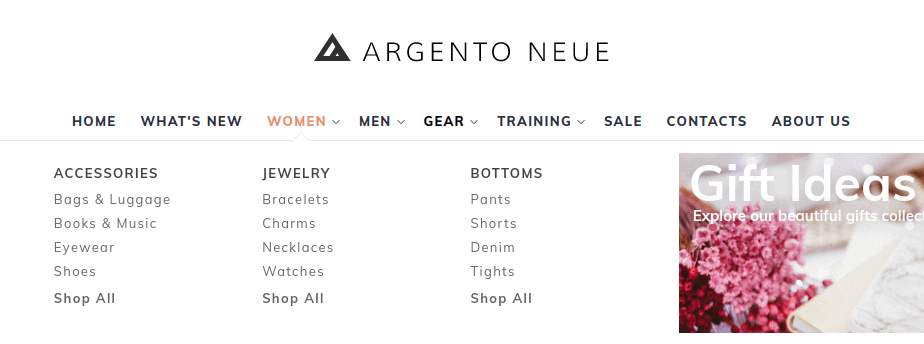
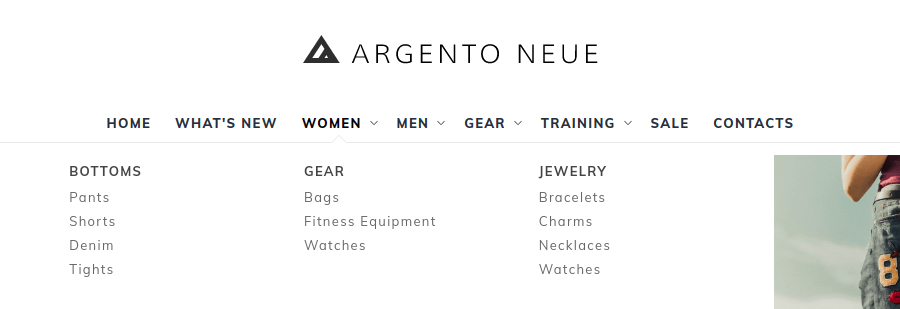
Navigationpro M2: 1.13 updates

diff --git a/m2/extensions/navigationpro/use-cases/megamenu.md b/m2/extensions/navigationpro/use-cases/megamenu.md
@@ -9,22 +9,55 @@ category: Navigationpro
 
 ![Megamenu](/images/m2/navigationpro/use-cases/megamenu.png)
 
+### Steps to create Menu
+
  1. Navigate to _Swissup > NavigationPro_ page, and press "Add New Menu".
- 2. Fill the [form](/m2/extensions/navigationpro/backend/menu-new/) and press "Save".
-    (Select 'Megamenu' type in the form).
- 3. That's all, menu skeleton is ready. Check the frontend!
- 4. If you whould like to limit the number of categories to display on the second
-    dropdown level, open **Menu Settings** panel and edit "Second level dropdown settings"
-    fields:
+ 2. Fill the with following values:
 
-    ![Second level dropdown settings](/images/m2/navigationpro/use-cases/megamenu/second-level-dropdown-settings.png)
+    ```
+    Name: Some name that will explicitly describe the menu
+    Type: Megamenu
+    Import Categories From: Select Root Category
+    Replace Top Menu at: Select Stores that will use this menu
+    ```
 
- 5. Now let's add a banner into 'Women' dropdown. Select the item in the tree
-    and edit **Dropdown Settings** fields:
+ 3. Save the form. Now you can open your store frontend and check if everything
+    works fine.
 
-    ![Item dropdown settings](/images/m2/navigationpro/use-cases/megamenu/item-dropdown-settings.png)
+### Tips and Tricks
 
- 6. Use the same approach to change some settings for any other dropdowns.
+##### "Shop All" Link
+
+If you whould like to limit the number of categories to display on the second
+dropdown level (Show 'Shop All' link), navigate to
+_Menu Settings > Open Dropdown Settings > Second level dropdown settings_
+and edit "Layout" settings:
+
+![Second level dropdown settings](/images/m2/navigationpro/use-cases/megamenu/second-level-dropdown-settings.png)
+
+##### Category Image in Dropdown
+
+We use [EasyCatalogImages](/m2/extensions/easycatalogimages/) to add thumbnail
+attribute to each category. You can replace it with any other attribute. Open menu
+in backend, then navigate to _Menu Settings > Open Dropdown Settings > First level dropdown settings_.
+Here you can edit template that shows category image:
+
+```html
+{% raw %}<div style="overflow: hidden; max-height: 350px;">
+    {{depend remote_entity.thumbnail}}
+        <img class="xs-hide sm-hide" src="{{media url=''}}/catalog/category/{{var remote_entity.thumbnail}}" />
+    {{/depend}}
+</div>{% endraw %}
+```
+
+##### Per-item Dropdown Settings
+
+Sometimes you may want to change dropdown layout for particular item only.
+Open menu in backend, click on the category to edit in categories tree on the left
+and turn off "Use Menu Settings" in dropdown settings on the right. Here is a
+screenshot of dropdown settings for "Women" category:
+
+![Item dropdown settings](/images/m2/navigationpro/use-cases/megamenu/item-dropdown-settings.png)
 
 #### Next up
 {:.no_toc}

diff --git a/m2/extensions/navigationpro/use-cases/iconic-menu.md b/m2/extensions/navigationpro/use-cases/iconic-menu.md
@@ -7,8 +7,6 @@ category: Navigationpro
 
 # Iconic Menu
 
-> Don't have a menu yet? Create [simple menu][simple-menu] and come back!
-
 ## Contents
 {:.no_toc}
 
@@ -19,23 +17,53 @@ category: Navigationpro
 
 ![Iconic Menu](/images/m2/navigationpro/use-cases/iconic-menu.png)
 
- 1. Navigate to _Swissup > NavigationPro_ page, open menu to edit
- 2. Apply custom [item renderer][item-renderer] to each top level category as
-    shown below:
+#### Steps to create Menu
 
-    ![Iconic Menu Backend](/images/m2/navigationpro/use-cases/iconic-menu-backend.png)
+ 1. Navigate to _Swissup > NavigationPro_ page, and press "Add New Menu".
+ 2. Fill the with following values:
 
-    ```html
-    {% raw %}<a href="{{navpro data='url'}}" class="{{navpro data='class'}} text-center">
-        <img src="{{media url='wysiwyg/image.png'}}" alt="" />
-        {{navpro data="name"}}
-    </a>{% endraw %}
+    ```
+    Name: Some name that will explicitly describe the menu
+    Type: Iconic
+    Import Categories From: Select Root Category
+    Replace Top Menu at: Select Stores that will use this menu
     ```
 
- 3. Click on **Menu Settings** button and fill the following CSS classes
-    in [Menu Settings][menu-settings] panel: `justify-around caret-bottom navpro-iconic iconic-vertical`.
+ 3. Save the form. Now you can open your store frontend and check if everything
+    works fine.
 
- 4. That's all. Clear Magento's cache and see the result on the frontend.
+#### Tips and Tricks
+
+##### Category Icons
+
+We use [EasyCatalogImages](/m2/extensions/easycatalogimages/) to add thumbnail
+attribute to each category. You can replace it with any other attribute. Open menu
+in backend, then navigate to
+_Menu Settings > Open Item Settings > First level item settings_.
+Here you can edit template that shows category icon:
+
+```html
+{% raw %}<a href="{{var item.url'}}" class="{{var item.class}}">
+    {{depend remote_entity.thumbnail}}
+        <img class="xs-hide sm-hide" width="50px" src="{{media url=''}}/catalog/category/{{var remote_entity.thumbnail}}" />
+    {{/depend}}
+    <span>{{var item.name}}</span>
+</a>{% endraw %}
+```
+
+##### Per-item Icon Settings
+
+Sometimes you may want to change icon for particular item only.
+Open menu in backend, click on the category to edit in categories tree on the left,
+and use "Name as Html" on the right ("Advanced Settings" fieldset).
+Here is an example:
+
+```html
+{% raw %}<a href="{{var item.url'}}" class="{{var item.class}}">
+    <img class="xs-hide sm-hide" src="{{media url=&quot;wysiwyg/iconfinder_multimedia-37_2849799.png&quot;}}" alt="" />
+    <span>{{var item.name}}</span>
+</a>{% endraw %}
+```
 
 ### Dropdown Menu
 

diff --git a/m2/extensions/navigationpro/use-cases/ribbon-menu.md b/m2/extensions/navigationpro/use-cases/ribbon-menu.md
@@ -9,18 +9,24 @@ category: Navigationpro
 
 > This feature is available since 1.6.0
 
-> Don't have a menu yet? Create [simple menu][simple-menu] and come back!
-
 ![Ribbon Menu](/images/m2/navigationpro/use-cases/ribbon-menu.png)
 
 Ribbon menu — is a [simple menu][simple-menu] variation, except of subcategories
 inside dropdowns are rendered horizontally, and dropdowns are positioned below
 each other.
 
- 1. Navigate to _Swissup > NavigationPro_ page, open menu to edit.
- 2. Click on **Menu Settings** button and add `navpro-ribbon` class into the
-    **CSS Class** field.
- 3. Press **Save** button.
+ 1. Navigate to _Swissup > NavigationPro_ page, and press "Add New Menu".
+ 2. Fill the with following values:
+
+    ```
+    Name: Some name that will explicitly describe the menu
+    Type: Ribbon Menu
+    Import Categories From: Select Root Category
+    Replace Top Menu at: Select Stores that will use this menu
+    ```
+
+ 3. Save the form. Now you can open your store frontend and check if everything
+    works fine.
 
 #### Next up
 {:.no_toc}

diff --git a/m2/extensions/navigationpro/use-cases/stacked-dropdowns.md b/m2/extensions/navigationpro/use-cases/stacked-dropdowns.md
@@ -7,17 +7,23 @@ category: Navigationpro
 
 # Stacked Dropdowns
 
-> Don't have a menu yet? Create [simple menu][simple-menu] and come back!
-
 ![Stacked Dropdowns](/images/m2/navigationpro/use-cases/stacked-dropdowns.png)
 
 Stacked Dropdowns menu — is a [simple menu][simple-menu] variation, except of subcategories
 dropdown positioning and height.
 
- 1. Navigate to _Swissup > NavigationPro_ page, open menu to edit.
- 2. Click on **Menu Settings** button and add `navpro-stacked` class into the
-    **CSS Class** field.
- 3. Press **Save** button.
+ 1. Navigate to _Swissup > NavigationPro_ page, and press "Add New Menu".
+ 2. Fill the with following values:
+
+    ```
+    Name: Some name that will explicitly describe the menu
+    Type: Stacked Menu
+    Import Categories From: Select Root Category
+    Replace Top Menu at: Select Stores that will use this menu
+    ```
+
+ 3. Save the form. Now you can open your store frontend and check if everything
+    works fine.
 
 #### Next up
 {:.no_toc}

diff --git a/m2/extensions/navigationpro/changelog.md b/m2/extensions/navigationpro/changelog.md
@@ -10,7 +10,7 @@ category: Navigationpro
 
 ### Version 1.13.0
 
-> Draft
+> Sep 27, 2019
 
 {% include gallery.html images=site.data.gallery.m2.navigationpro.changelog.v1130 class="phone-up-2 tablet-up-3 photoswipe scroll" %}
 
@@ -26,6 +26,9 @@ category: Navigationpro
  -  Improved [Amazon Menu](/m2/extensions/navigationpro/use-cases/amazon-menu/)
     type builder. Now, it automatically shows parent category thumbnail
     in second level dropdowns.
+ -  Improved [Megamenu](/m2/extensions/navigationpro/use-cases/megamenu/)
+    type builder. Now, it automatically shows parent category thumbnail
+    in category dropdown.
  -  New effects added to reveal menu dropdowns: Fade, SlideIn, SlideOut, None.
  -  Improved dropdown positioning.
  -  Many CSS fixes for Dark, Compact, and Flat themes.
